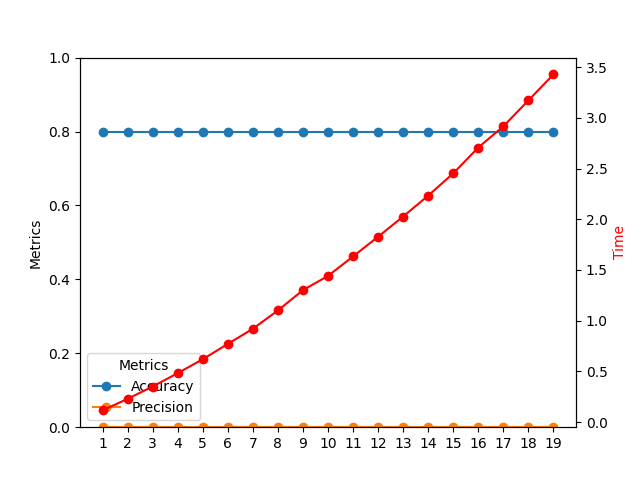
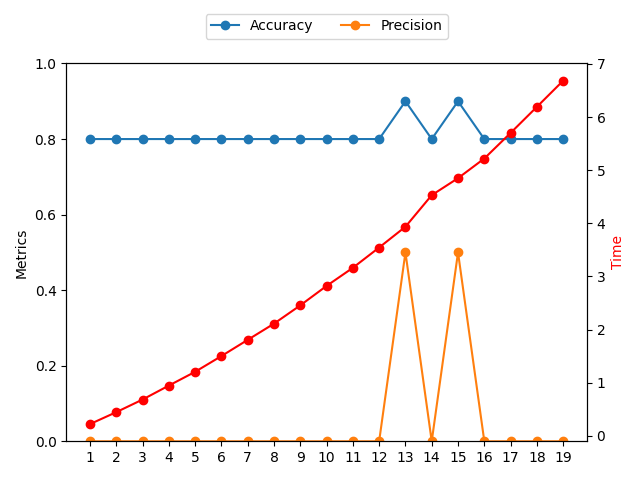
testing improvements

diff --git a/NeuralNetwork/src/testing.py b/NeuralNetwork/src/testing.py
@@ -7,7 +7,7 @@ import time
 
 import matplotlib.pyplot as plt
 
-DATA_PERCENTAGE = 0.01
+DATA_PERCENTAGE = 0.02
 
 # TODO:
 # data analysis
@@ -84,12 +84,16 @@ def get_metrics(confusion_matrix: dict) -> dict:
         fn += confusion_matrix[key]['fn']
 
     metrics = {
-        'accuracy': None,
-        'precision': None
+        'Accuracy': None,
+        'Precision': None,
+        'Recall': None,
+        'F1 Score': None
     }
 
-    metrics['accuracy'] = (tp + tn) / (tp + tn + fp + fn)
-    metrics['precision'] = tp / (tp + fp)
+    metrics['Accuracy'] = (tp + tn) / (tp + tn + fp + fn)
+    metrics['Precision'] = tp / (tp + fp)
+    metrics['Recall'] = tp / (tp + fn)
+    metrics['F1 Score'] = 2*tp / (2*tp + fp + fn)
 
     # for key in confusion_matrix:
     #     print(f'{key}: {confusion_matrix[key]}')
@@ -182,35 +186,32 @@ def plot(dict):
     elif changing_parameter == 'learning rate':
         ax1.set_xlabel('Learning rate')
 
-    accuracy_list = [
-        metric['accuracy'] for metric in metrics_list
-    ]
-    ax1.plot(changing_parameter_values, accuracy_list, marker='o')
-    precision_list = [
-        metric['precision'] for metric in metrics_list
-    ]
-    ax1.plot(changing_parameter_values, precision_list, marker='o')
+    for metric in metrics_list[0]:
+        if metric in ('Accuracy', 'Precision'):
+            values = [
+                metrics[metric]
+                for metrics in metrics_list
+            ]
+            ax1.plot(changing_parameter_values, values, marker='o', label=metric)
 
     ax1.set_ylabel('Metrics')
     ax1.set_ylim((0, 1))
-    ax1.legend(['Accuracy', 'Precision'], title="Metrics")
+    ax1.legend(
+        ncol=2,
+        loc='upper center',
+        bbox_to_anchor=(0.5, 1.15)
+    )
 
     ax2.plot(changing_parameter_values, times_list, color='red', marker='o')
     ax2.set_ylabel('Time', color='red')
-    # ax2.set_ylim(
-    #     (
-    #         min(times_list) - max(times_list)*0.01,
-    #         max(times_list) + max(times_list)*0.01
-    #     )
-    # )
     plt.xticks(changing_parameter_values, changing_parameter_values)
 
-    # print(time.time() - start_time)
+    plt.tight_layout()
 
-    fig.savefig(f'plots/{changing_parameter}.png')
-    # fig.show()
+    plt.savefig(f'plots/{changing_parameter}.png')
+    # plt.show()
 
-    print(f'Plotting time: {time.time() - plotting_start_time}')
+    print(f'All tests time: {round(time.time() - plotting_start_time)}s\n')
 
 
 if __name__ == "__main__":
@@ -282,6 +283,6 @@ if __name__ == "__main__":
             'hidden_layers_number': 2,
             'neurons_in_layer_number': 10,
             'epochs_number': 10,
-            'learning_rate': np.arange(0.1, 1.1, 0.1).tolist()
+            'learning_rate': np.arange(0.5, 5.5, 0.5).tolist()
         }
     )
